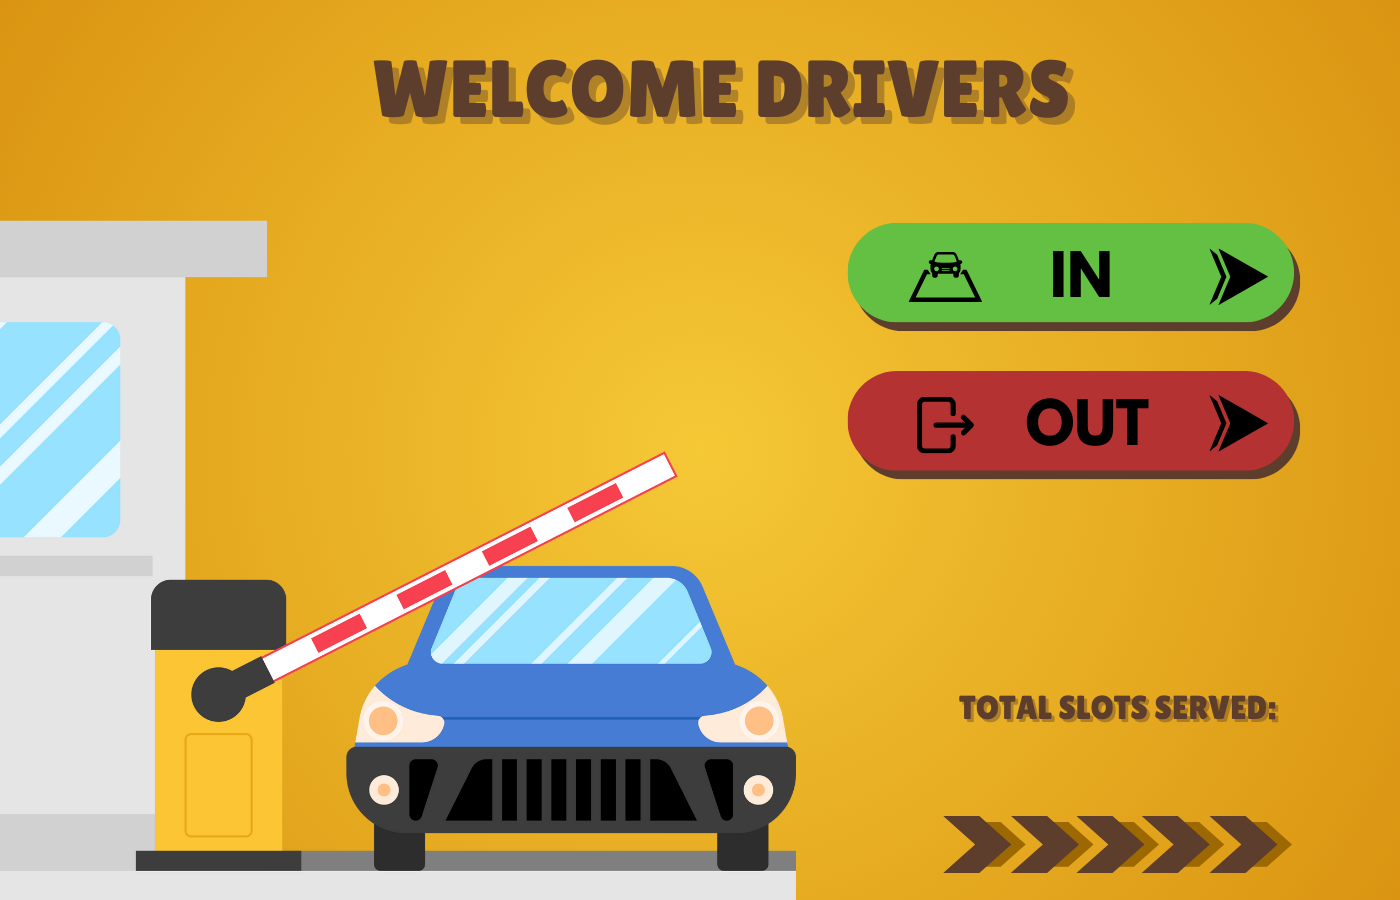
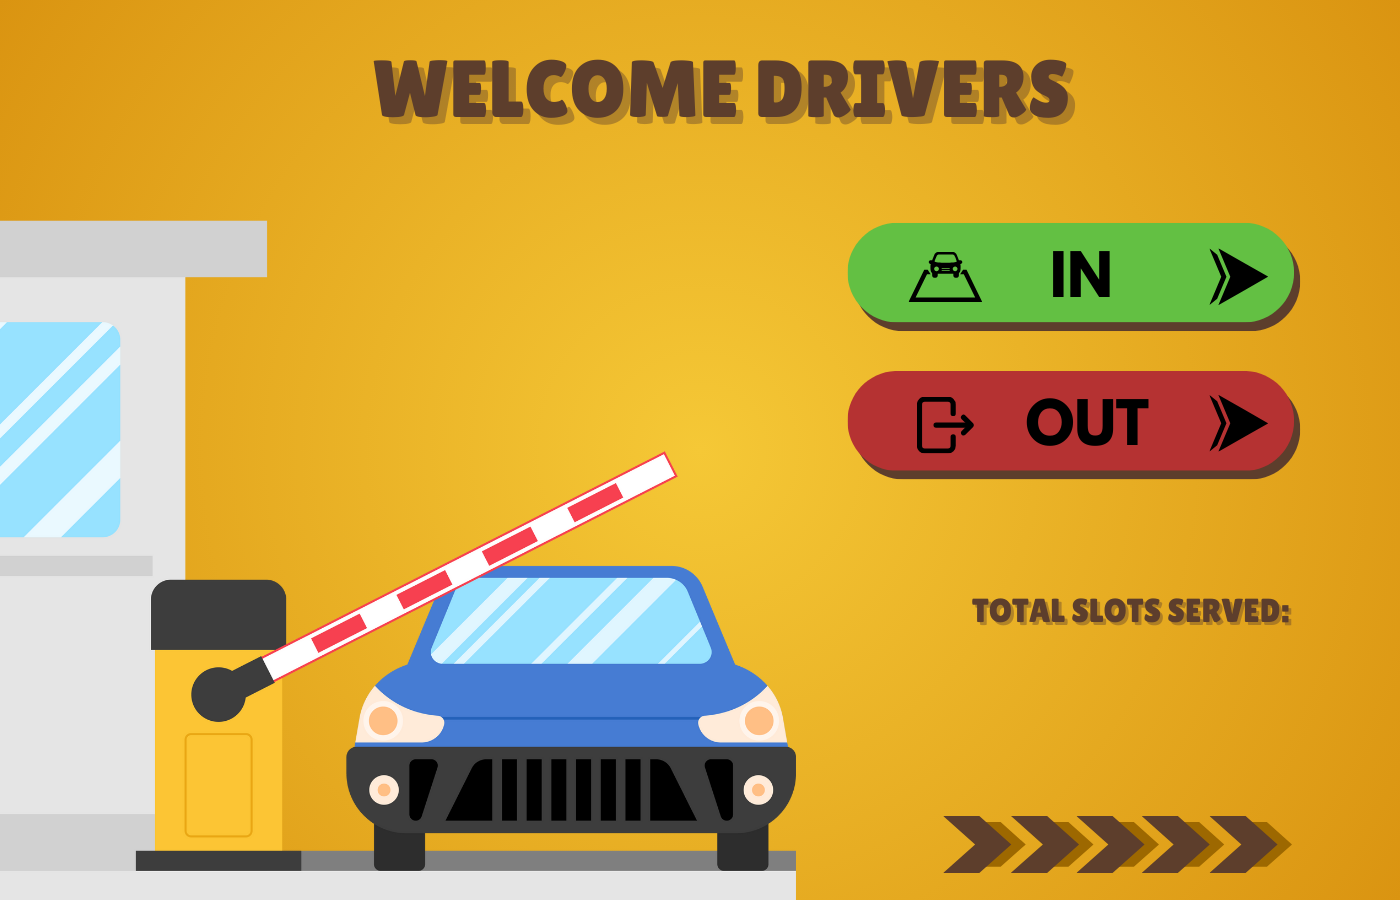
airi

Changed region(s): [[0.6757, 0.6533, 0.9214, 0.7156], [0.6757, 0.7467, 0.9214, 0.8089]]

diff --git a/src/parkingsystem/P03_SELECTPARK.java b/src/parkingsystem/P03_SELECTPARK.java
@@ -38,6 +38,7 @@ public class P03_SELECTPARK extends javax.swing.JFrame {
         L04 = new javax.swing.JButton();
         L05 = new javax.swing.JButton();
         R01 = new javax.swing.JButton();
+        jLabel4 = new javax.swing.JLabel();
         mainIMG = new javax.swing.JLabel();
 
         setDefaultCloseOperation(javax.swing.WindowConstants.EXIT_ON_CLOSE);
@@ -45,7 +46,7 @@ public class P03_SELECTPARK extends javax.swing.JFrame {
         getContentPane().setLayout(new org.netbeans.lib.awtextra.AbsoluteLayout());
 
         jLabel3.setText("jLabel3");
-        getContentPane().add(jLabel3, new org.netbeans.lib.awtextra.AbsoluteConstraints(288, 308, 100, 20));
+        getContentPane().add(jLabel3, new org.netbeans.lib.awtextra.AbsoluteConstraints(470, 311, 100, 20));
 
         R02.setBorder(javax.swing.BorderFactory.createEmptyBorder(1, 1, 1, 1));
         R02.setContentAreaFilled(false);
@@ -146,6 +147,9 @@ public class P03_SELECTPARK extends javax.swing.JFrame {
             }
         });
         getContentPane().add(R01, new org.netbeans.lib.awtextra.AbsoluteConstraints(290, 340, 100, 80));
+
+        jLabel4.setText("jLabel3");
+        getContentPane().add(jLabel4, new org.netbeans.lib.awtextra.AbsoluteConstraints(288, 308, 100, 20));
 
         mainIMG.setIcon(new javax.swing.ImageIcon(getClass().getResource("/MAIN_UI/IN_FNL.png"))); // NOI18N
         getContentPane().add(mainIMG, new org.netbeans.lib.awtextra.AbsoluteConstraints(0, 0, -1, -1));
@@ -274,6 +278,7 @@ public class P03_SELECTPARK extends javax.swing.JFrame {
     private javax.swing.JButton R05;
     private javax.swing.JButton back;
     private javax.swing.JLabel jLabel3;
+    private javax.swing.JLabel jLabel4;
     private javax.swing.JLabel mainIMG;
     // End of variables declaration//GEN-END:variables
 }
